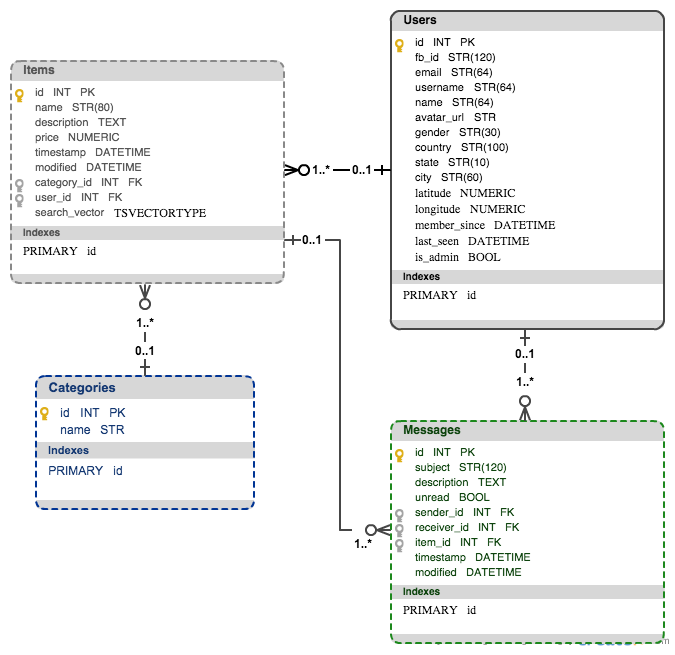
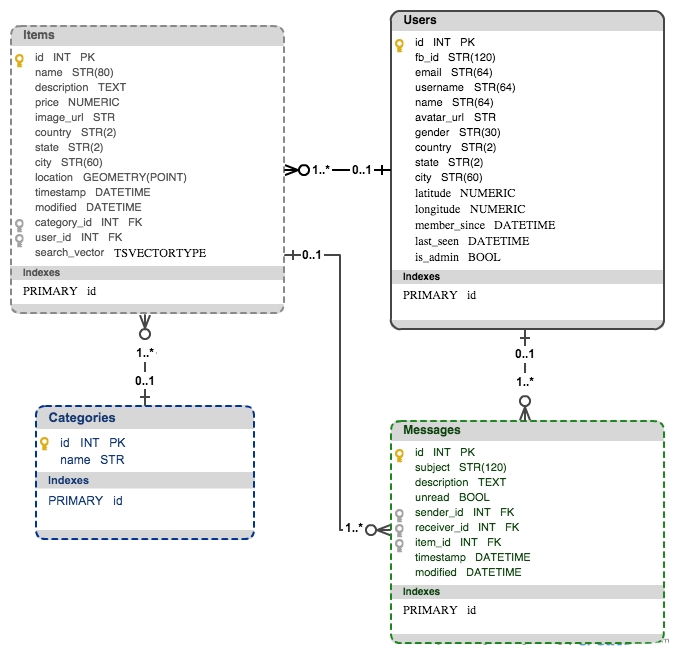
update documentation

diff --git a/docs/database.md b/docs/database.md
@@ -4,6 +4,8 @@ Database model definition and a guide to check how to create a database, make a 
 
 ![DB schema](img/tradyfit_db_model.png)
 
+Below I describe some interesting elements or relation from each of the tables: 
+
 <h4>Users table</h4>
 - Primary key: id
 - Relationships:    
@@ -21,53 +23,99 @@ Database model definition and a guide to check how to create a database, make a 
         This is very important because we will be calling len(current_user.msg_unread) to display an "Unread notifications" icon in the NavBar (printed in each request when the user is logged in) so we need to make sure to not trigger a query each time we access the resource  
         - Specific relation: ``primaryjoin="and_(User.id==Message.receiver_id, Message.unread==True)"``  
 
-<h4>Messages:</h4>  
-- Primary key: id  
+<h4>Items table</h4>
+- Primary key: id
+- location:  
+    Geometry point that represents a spatial coordinate from the [WGS84](http://en.wikipedia.org/wiki/World_Geodetic_System#WGS84) reference system. This is indicated by the spatial reference id value (srid=4326)
+- search_vector:  
+    TSVectorType column that vectorize the string columns name and description and create the search vectors.
+
+<h4>Messages:</h4>
+- Primary key: id
 - Deletes for foreign keys: sender_id, receiver_id and item_id are set to ``ondelete='SET NULL'``, so if a user or item is deleted the message is still available.  
 
 
 ## Database creation  
-From the command line on the VM go to psql and create the dev and test databases:
-```>> psql```
-```>> CREATE DATABASE tradyfit_dev;```
-```>> CREATE DATABASE tradyfit_test;```
+In vagrant's config file [pg_config.sh](https://github.com/rosariomgomez/tradyfit/blob/master/vagrant/pg_config.sh#L9):  
+```
+su postgres -c 'createuser -dRS vagrant'
+su vagrant -c 'createdb tradyfit_dev'
+su vagrant -c 'createdb tradyfit_test'
+```
+
+The same can be achieved from the command line, run psql and create the dev and test databases:  
+```
+>> psql  
+>> CREATE DATABASE tradyfit_dev;
+>> CREATE DATABASE tradyfit_test;
+```
+
+<h3>How to add PostGIS support</h3>
+[PostGIS](http://postgis.net/) adds support for geographic objects allowing location queries to be run in SQL. In vagrant's config file [pg_config.sh](https://github.com/rosariomgomez/tradyfit/blob/master/vagrant/pg_config.sh#L12) install the packages and create the extensions:  
+```
+sudo apt-get install postgis postgresql-9.3-postgis-2.1
+su vagrant psql -c "CREATE EXTENSION postgis; CREATE EXTENSION postgis_topology;" tradyfit_dev
+su vagrant psql -c "CREATE EXTENSION postgis; CREATE EXTENSION postgis_topology;" tradyfit_test
+```
 
 ## Set up
-Since the production app will be using a Postgres DB, it is a good idea to develop locally on the same database.  
-In order to communicate the postgres database with the flask application, we need to use the following libraries:  
-- psycopg2: Python adapter for Postgres  
-- flask-sqlalchemy: Python ORM (Object-relational mapping). Flask wrapper for SQLAlchemy. SQLAlchemy is a relational database framework that supports several database backends.  
-- Flask-Migrate: for database migrations (it makes use of Alembic)  
+Since the production app will be using a Postgres DB, it is a good idea to develop and test locally on the same database. In order to communicate the postgres database with the flask application, we need to use the following libraries: 
+
+- [psycopg2](http://initd.org/psycopg/): Python adapter for Postgres  
+- [sqlalchemy](http://www.sqlalchemy.org/): Python SQL and ORM (Object-relational mapping) framework.
+- [flask-sqlalchemy](https://pythonhosted.org/Flask-SQLAlchemy/): Flask wrapper for SQLAlchemy that provides useful defaults and extra helpers.
+- [Flask-Migrate](https://flask-migrate.readthedocs.org/en/latest/): Flask extension for SQLAlchemy database migrations (it makes use of Alembic)  
+- [GeoAlchemy2](http://geoalchemy-2.readthedocs.org/en/latest/): allows SQLAlchemy's ORM to work with spatial databases (in our case PostgreSQL/PostGIS implemented for items table on location column that will allow us query for nearby points)   
+
 
 ## Model definition
-Tables are defined in models.py file
+Tables are defined in [models.py](https://github.com/rosariomgomez/tradyfit/blob/master/vagrant/tradyfit/app/models.py) classes that include directives (\_\_tablename\_\_) to describe the actual database table they will be mapped to.
+
 
 ## config.py
-In the config.py file we specify the URI for the database we will be using depending on the environment the application is running.
-
-Amongst other configurations, we specify:
+In the [config.py](https://github.com/rosariomgomez/tradyfit/blob/master/vagrant/tradyfit/config.py) file we specify the URI for the database we will be using depending on the environment the application is running.
+Amongst other configurations, we specify:  
 ```SQLALCHEMY_COMMIT_ON_TEARDOWN = True```  
 This will make automatic database commits at the end of each request we have modified the db.session.
 
 ## Run database operations from the shell
-Thank you to the method make_shell_context() in manage.py, we can query the database tables from the console using the SQLAlchemy syntax. Some examples:  
-```>> python manage.py shell```  
+Thank you to the method make_shell_context() in [manage.py](https://github.com/rosariomgomez/tradyfit/blob/master/vagrant/tradyfit/manage.py#L20), we can query the database tables from the console using the SQLAlchemy syntax.  
+Some examples:  
+```
+>> python manage.py shell
+```    
+
 - Adding default values to DB from file (such as sports categories):  
-```>> Category.insert_categories()```  
+```
+>> Category.insert_categories()
+```  
 - Querying rows:  
-```>> User.query.all()```  
-```>> user1 = User.query.filter_by(username='emily34').first()```  
-- Deleting:  
-```>> db.session.delete(user1)```  
-```>> db.session.commit()```  
+```
+>> User.query.all()
+>> user1 = User.query.filter_by(username='emily34').first()
+``` 
+- Deleting:
+```
+>> db.session.delete(user1)  
+>> db.session.commit()
+```  
 
 ## Migrations
 Before database migrations can be maintained, it is necessary to create a migration repository with the init subcommand:   
-```>> python manage.py db init```  
+```
+>> python manage.py db init
+```  
 This command creates a migration folder, where all the migration scripts will be stored.  
   
 Every time we make a change on the db schema, we need to run a db migration. We can use the db migrate subcommand that will generate an automatic migration script:  
-```>> python manage.py db migrate -m “change we’ve made on the database”```  
+```
+>> python manage.py db migrate -m “change we’ve made on the database”
+```  
 
 Then, we should review the script to see if it was correctly generated. And finally we apply the change to the database with the db upgrade command:  
-```>> python manage.py db upgrade```
+```
+>> python manage.py db upgrade
+```
+
+
+

diff --git a/docs/architecture.md b/docs/architecture.md
@@ -5,23 +5,43 @@ a feature in a certain way.
 
 #Search engine for items
 
-I've implemented this full text indexing searc via [SQLAlchemy-Searchable](https://sqlalchemy-searchable.readthedocs.org/en/latest/index.html) because it can be neatly integrated into Flask-SQLAlchemy using SearchQueryMixin class. It makes use of PostgreSQL built-in TSVectorType class to vectorize string columns and create the search vectors.
+I've implemented this full text indexing search via [SQLAlchemy-Searchable](https://sqlalchemy-searchable.readthedocs.org/en/latest/index.html) because it can be neatly integrated into Flask-SQLAlchemy using SearchQueryMixin class. It makes use of PostgreSQL built-in TSVectorType class to vectorize string columns and create the search vectors.
 
 <h3>How to perform a search</h3>
 
-SearchQueryMixin provides the search method for ItemQuery. You can chain calls just like when using query filter calls. Here we search for the first 50 items that contain the word ‘ball’ ordered by creation time.
-`Item.query.search('ball').order_by(Item.timestamp.desc()).limit(50).all()`
+SearchQueryMixin provides the search method for ItemQuery. You can chain calls just like when using query filter calls.  
+
+In the following example, we search for the first 50 items that contain the word ‘ball’ ordered by creation time:
+```  
+Item.query.search('ball').order_by(Item.timestamp.desc()).limit(50).all()
+```
 
 <h3>Important notes</h3>
  - Followed documentation for [Flask-SQLAlchemy integration](https://sqlalchemy-searchable.readthedocs.org/en/latest/integrations.html)
- - Modified generated migration script to update the [search triggers](https://sqlalchemy-searchable.readthedocs.org/en/latest/alembic_migrations.html). Check the [applied migration script]() for reference.
+ - Modified generated migration script to update the [search triggers](https://sqlalchemy-searchable.readthedocs.org/en/latest/alembic_migrations.html). Check the [applied migration script](https://github.com/rosariomgomez/tradyfit/blob/master/vagrant/tradyfit/migrations/versions/35b2b9f7b64e_added_search_vector_to_items_table.py) for reference.
 
 <h3>Pitfalls</h3>
 I did a first implementation using Whoosh via [Flask-WhooshAlchemy](https://pythonhosted.org/Flask-WhooshAlchemy/).
 Problem: it stores the indices in files, so not compatible with Heroku deployment restrictions for accessing the filesystem.
 
+
+# Nearby searches
+
+When a user is logged in and has latitude and longitude values, the search's results are ordered by nearby location. The execution of a raw SQL query will be very expensive in processing, that's why I used the PostGIS extension for PostgreSQL and I perform the queries via GeoAlchemy2 library.  
+
+The latitude, longitude user's values are converted to a [WKB element](http://en.wikipedia.org/wiki/Well-known_text) geometry point. The search results are ordered by the nearest neighbors' items to the user:  
+```
+Item.query.search(query).order_by(Item.location.distance_box(user_loc))
+```
+For more information about spatial queries, check the GeoAlchemy [documentaion](http://geoalchemy-2.readthedocs.org/en/latest/orm_tutorial.html#spatial-query)
+
+<h3>Important notes</h3>
+- Modified the automatic generated migration script from flask-migrate. Check the [migration applied]() for reference.
+- Needed to enable PostGIS on [.travis.yml](https://github.com/rosariomgomez/tradyfit/blob/master/.travis.yml#L18) file for running tests on Travis-CI.
+
 # External services
-<h2>Facebook login</h2>
+
+<h3>Facebook login</h3>
 The reason of implementing social login instead of a personal sign up system is to avoid storing sensible users’ information.
 
 In order to interact with the 3rd party log in services, I’ve used flask-oauthlib that implements Oauth.
@@ -34,18 +54,22 @@ I’ve created the __auth blueprint__ to include all the code related with the a
 The config.py file contains the necessary set up for the service. The passwords and API keys are set up as environment variables.
 
 __User model:__
-fb_id (facebook_id): unique not nullable
-email: unique not nullable
 
-The user's avatar is pulled from facebook the first time the user log in and stored in an S3 bucket.
+- fb_id (facebook_id): unique not nullable
+- email: unique not nullable
+- avatar_url: user's avatar url to S3 (avatar is pulled from facebook the first time the user log in and stored in an S3 bucket).
 
-<h2>Amazon S3</h2>
+<h3>Amazon S3</h3>
 Amazon S3 is a popular and reliable storage option for storing files. I've used it to store user avatars and product images. Details on how to configure it [here](https://github.com/rosariomgomez/tradyfit/wiki/Notes#amazon-s3-configuration).
-- I use [boto](https://github.com/boto/boto) Python library for handling the S3 upload.
+
+- I use [boto](https://github.com/boto/boto) Python library for handling the S3 upload.  
 - Security checks for file uploading (useful [documentation](http://flask.pocoo.org/docs/0.10/patterns/fileuploads/)):
     - __Maximum size:__ Specified in `config.py` file via `MAX_CONTENT_LENGTH` constant. If user tries to upload a file bigger than 3MB, a 413 (File too large) error is raised. I capture it via error_handler and redirect to the item form.
     - __Allowed file extensions:__ Verified via FileAllowed method from flask_wtf.file library in ItemForm validators.
     - __Filename extension:__ In order to save the image in S3 with the correct extension, we need to extract it from the filename. Although I'm not using the filename provided from the user as destination filename, I use werkzeug.secure_filename() to extract the filename extension (for example it will remove ../..).
+
+<h3>GoogleV3 geocoder service</h3>
+When geolocation information cannot be extracted from user's IP. Read more in the next section.
 
 # Geolocation
 The geolocation data is stored in the User class and consist of: country, state, city, latitude and longitude.

diff --git a/docs/notes.md b/docs/notes.md
@@ -24,6 +24,7 @@ I fixed it installing SQLAlchemy via pip install instead of apt-get (added to re
 - Attach the policies to the users (one user for production, another for dev and test).
 - From the "Security Credentials" tab, create an Access Key. Set the Access key ID and Secret Access key as environment variables: S3_KEY, S3_SECRET.
 
+
 # Forms
 
 <h3> Uploading files</h3>
